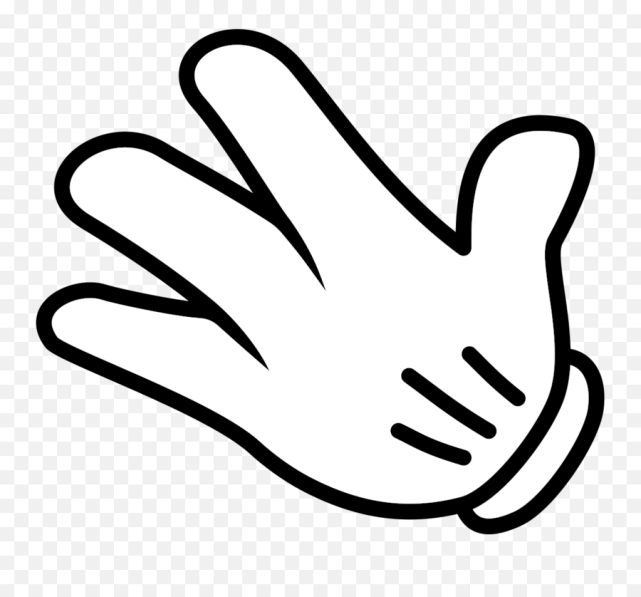
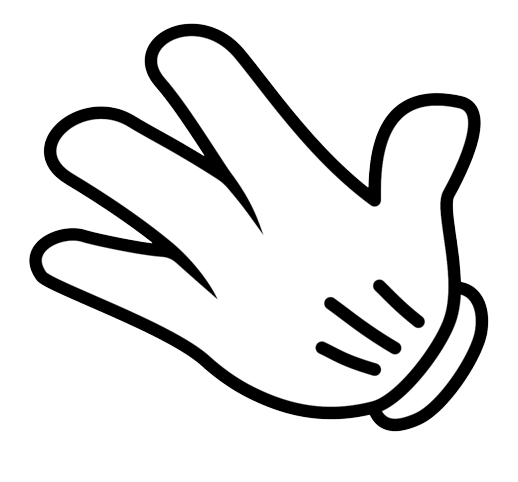
Remove background from images. Add the rock paper scissor option and a little hover effect

diff --git a/index.html b/index.html
@@ -19,17 +19,22 @@
       <div class="playground">
         <div class="scorecard">
           <div class="winScore">First to score 5 wins.</div>
-          <div class="scores">player; computer</div>
+          <div class="scores">player  :  computer</div>
         </div>
         <div class="players">
           <div class="leftPlayer">
-            <img src="images/rockRight.png" alt="" />
+        
+            <img src="images/rockRIght.png" alt="" />
           </div>
-          <div class="rps"><div class="choice">
-            <div class="rock">Rock</div>
-            <div class="paper">Paper</div>
-            <div class="scissor">Scissor</div>
-          </div></div>
+
+          <div class="choice">
+            <img id="rps" src="images/rockMiddle.png" alt="Rock" />
+
+            <img id="rps" src="images/paperMiddle.png" alt="Paper" />
+
+            <img id="rps" src="images/scissorMiddle.png" alt="Scissor" />
+          </div>
+
           <div class="rightPlayer">
             <img src="images/rock.png" alt="" />
           </div>

diff --git a/styles.css b/styles.css
@@ -20,7 +20,7 @@ body {
     display: flex;
     justify-content: center;
     height: 50%;
-    
+    padding-bottom: 50px;
 }
 
 .playground{
@@ -28,14 +28,16 @@ body {
     flex-direction: column;
     gap: 2em;
     justify-content: space-between;
-    border: 4px solid green;
+    /* border: 4px solid green; */
     width: 50%;
-    padding-bottom: 50px;
+    
 }
 
-.playground > * {
-    border: 2px solid red;
+img {
+    height: 10px;
+    width: 50px;
 }
+
 
 .scorecard, .message {
     font-family: 'Sriracha', cursive;
@@ -44,7 +46,7 @@ body {
 }
 
 .players {
-    flex-grow: 1;
+    /* flex-grow: 1; */
     display: flex;
     justify-content: space-around;
     align-items: center;
@@ -54,18 +56,23 @@ body {
     display: flex;
     flex-direction: column;
     gap: 1em;
+    
 }
 
-.choice > * {
+
+.leftPlayer img, .rightPlayer img{
+    height: 150px;
+    width: 170px;
+}
+
+#rps {
     height: 50px;
     width: 50px;
 }
 
-.players img{
-    height: 100px;
-    width: 100px;
+#rps:hover{
+    transform: scale(1.2);
 }
-
 
 
 
